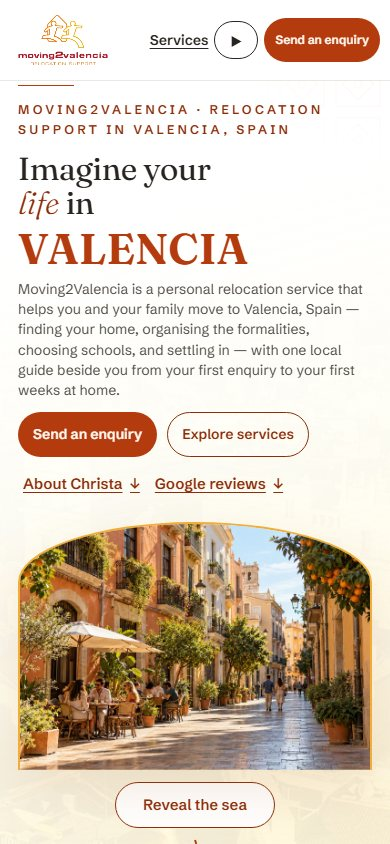
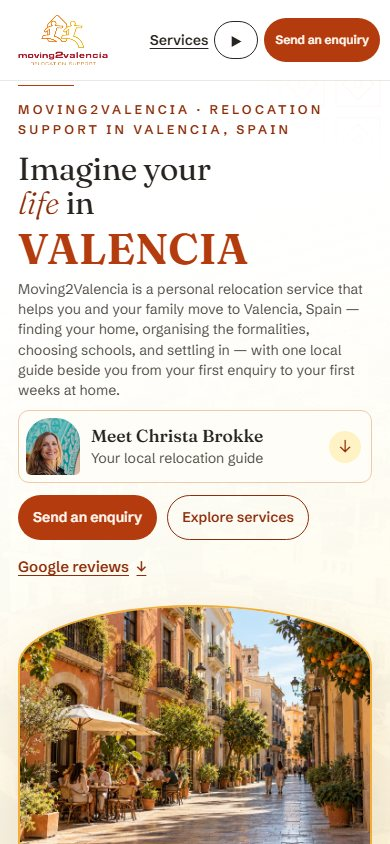
Introduce Christa near the top of the mobile homepage

diff --git a/review/christa/index.html b/review/christa/index.html
@@ -28,7 +28,7 @@
       <div class="welcome">
         <p>Christa, here’s your chosen design with a brighter palette and your service copy. You can explore the full Services section or try the homepage on desktop and phone.</p>
         <div class="actions">
-          <a class="button primary" href="../client-editions/new-horizon-ii-review/index.html?v=sea-reveal" target="_blank" rel="noopener">Open the revised website <span aria-hidden="true">↗</span></a>
+          <a class="button primary" href="../client-editions/new-horizon-ii-review/index.html?v=christa-welcome" target="_blank" rel="noopener">Open the revised website <span aria-hidden="true">↗</span></a>
           <a class="text-link" href="../client-editions/new-horizon-ii-review/services/index.html" target="_blank" rel="noopener">Review the Services pages <span aria-hidden="true">↗</span></a>
         </div>
       </div>
@@ -49,10 +49,10 @@
         <div class="device-mockup">
           <div class="device-shell">
             <div class="device-screen">
-              <a class="preview-image" id="preview-image" href="../client-editions/new-horizon-ii-review/index.html?v=sea-reveal" target="_blank" rel="noopener" aria-label="Open the revised A New Horizon II website">
+              <a class="preview-image" id="preview-image" href="../client-editions/new-horizon-ii-review/index.html?v=christa-welcome" target="_blank" rel="noopener" aria-label="Open the revised A New Horizon II website">
                 <picture>
-                  <source media="(max-width: 600px)" srcset="homepage-phone.jpg?v=sea-reveal" width="390" height="844">
-                  <img src="homepage-preview.jpg?v=sea-reveal" width="1440" height="900" alt="The revised homepage with orange type and a Valencia café street framed in an arch" fetchpriority="high">
+                  <source media="(max-width: 600px)" srcset="homepage-phone.jpg?v=christa-welcome" width="390" height="844">
+                  <img src="homepage-preview.jpg?v=christa-welcome" width="1440" height="900" alt="The revised homepage with orange type and a Valencia café street framed in an arch" fetchpriority="high">
                 </picture>
               </a>
               <iframe id="site-preview" title="Interactive A New Horizon II website preview" hidden></iframe>
@@ -76,7 +76,7 @@
         </div>
         <div>
           <dt><span aria-hidden="true">02</span> City to sea on the homepage</dt>
-          <dd><p>The first photo shows the full café street, then opens into the Mediterranean coast as it comes into view. You can return to the city and play the reveal again.</p><a href="../client-editions/new-horizon-ii-review/index.html?v=sea-reveal" target="_blank" rel="noopener">Watch the opening <span aria-hidden="true">↗</span></a> <a href="../client-editions/new-horizon-ii-review/index.html?v=sea-reveal#flArch" target="_blank" rel="noopener">See the city open to the sea <span aria-hidden="true">↗</span></a></dd>
+          <dd><p>The first photo shows the full café street, then opens into the Mediterranean coast as it comes into view. You can return to the city and play the reveal again.</p><a href="../client-editions/new-horizon-ii-review/index.html?v=christa-welcome" target="_blank" rel="noopener">Watch the opening <span aria-hidden="true">↗</span></a> <a href="../client-editions/new-horizon-ii-review/index.html?v=christa-welcome#flArch" target="_blank" rel="noopener">See the city open to the sea <span aria-hidden="true">↗</span></a></dd>
         </div>
         <div>
           <dt><span aria-hidden="true">03</span> School choices and timing</dt>
@@ -84,13 +84,13 @@
         </div>
         <div>
           <dt><span aria-hidden="true">04</span> Your story in your own words</dt>
-          <dd><p>On mobile, About Christa is linked from the top of the homepage. The section tells the story from your work in opera to your family’s move to Valencia and the start of Moving2Valencia.</p><a href="../client-editions/new-horizon-ii-review/index.html?v=sea-reveal#person" target="_blank" rel="noopener">Read the About section <span aria-hidden="true">↗</span></a></dd>
+          <dd><p>On phones, your portrait and a Meet Christa card appear near the top of the homepage. Tapping the card takes readers straight to your story.</p><a href="../client-editions/new-horizon-ii-review/index.html?v=christa-welcome#person" target="_blank" rel="noopener">Read the About section <span aria-hidden="true">↗</span></a></dd>
         </div>
         <div>
           <dt><span aria-hidden="true">05</span> Google reviews on the homepage</dt>
           <dd>
             <p>The homepage features five excerpts, including our family’s review. Each excerpt links to the original on Google.</p>
-            <a href="../client-editions/new-horizon-ii-review/index.html?v=sea-reveal#reviews" target="_blank" rel="noopener">See the review section <span aria-hidden="true">↗</span></a>
+            <a href="../client-editions/new-horizon-ii-review/index.html?v=christa-welcome#reviews" target="_blank" rel="noopener">See the review section <span aria-hidden="true">↗</span></a>
             <a href="#family-review">Read the five excerpts below <span aria-hidden="true">↓</span></a>
           </dd>
         </div>

diff --git a/review/client-editions/new-horizon-ii-review/christa.css b/review/client-editions/new-horizon-ii-review/christa.css
@@ -28,8 +28,7 @@ body[data-christa-preview] {
 .topbar:not(.scrolled){background:#fffffff0;color:var(--ink);box-shadow:0 1px 0 #ded8cd99}
 .sp-top .christa-brand{width:clamp(96px,14vw,158px)}
 .mobile-services,.motion-glyph,.hero-about{display:none}
-.hero-reviews,.hero-about{align-items:center;gap:.5em;min-height:44px;padding:0 5px;color:var(--sun-orange-deep);font-size:15px;font-weight:600;text-underline-offset:.22em}
-.hero-reviews{display:inline-flex}
+.hero-reviews{display:inline-flex;align-items:center;gap:.5em;min-height:44px;padding:0 5px;color:var(--sun-orange-deep);font-size:15px;font-weight:600;text-underline-offset:.22em}
 [id="reviews"], [id="route"], [id="packages"], [id="belong"], [id="start"], #flArch{scroll-margin-top:110px}
 .service-shortcuts{margin:1em 0 0;max-width:58ch}
 .service-shortcuts p{margin:0;color:var(--ink-soft)}
@@ -87,7 +86,6 @@ body[data-christa-preview] {
 .compare-page figcaption strong{display:block;font-size:19px}
 @media (min-width:1120px) and (max-width:1260px){.topnav{gap:14px}.topbar{gap:12px}}
 @media (max-width:1119px){.topbar .topnav{display:none}.christa-brand{width:104px}.topbar .brand{padding:5px 7px}.mobile-services{display:inline-flex;align-items:center;min-height:44px;font-size:14px;font-weight:600;text-underline-offset:.2em}}
-@media (max-width:1119px){.hero-about{display:inline-flex}}
 @media (max-width:680px){.christa-review-grid,.christa-package-grid,.compare-page .compare-proof-grid{grid-template-columns:1fr}.christa-brand{width:92px}.hero-reviews{padding:0}.topbar .btn-small{min-height:44px}.compare-page figure img{max-width:400px;margin:auto}}
 @media (max-width:415px){.topbar .motion-toggle{min-width:44px;justify-content:center;padding:0}.topbar .dot{display:none}.motion-glyph{display:inline-block;font-size:14px}.motion-glyph::before{content:'Ⅱ'}body.motion-off .motion-glyph::before{content:'▶'}.topbar #motionLabel{position:absolute;width:1px;height:1px;overflow:hidden;clip-path:inset(50%);white-space:nowrap}}
 
@@ -104,6 +102,26 @@ body[data-christa-preview] {
 .hero .valencia-word.settled { color: var(--sun-orange); -webkit-text-fill-color: var(--sun-orange); }
 .hero-sub, .hero-meta, .fl-arch figcaption { color: var(--sun-muted); }
 .hero-meta span b { color: var(--sun-ink); }
+.hero-about {
+  grid-template-columns: 54px minmax(0, 1fr) 32px;
+  align-items: center;
+  gap: 11px;
+  width: min(100%, 390px);
+  margin: 10px 0 0;
+  padding: 7px 10px 7px 7px;
+  border: 1px solid #edcba8;
+  border-radius: 11px;
+  background: #fffdf7;
+  color: var(--sun-ink);
+  line-height: 1.3;
+  text-decoration: none;
+}
+.hero-about:hover { border-color: var(--sun-orange); }
+.hero-about strong { display: block; font: 550 clamp(17px, 4.5vw, 22px)/1.15 var(--serif); }
+.hero-about-role { display: block; margin-top: 3px; font-size: 14px; color: var(--sun-muted); }
+.hero-about-portrait { height: 57px; overflow: hidden; border-radius: 24px 24px 5px 5px; }
+.hero-about-portrait img { width: 100%; height: 100%; object-fit: cover; object-position: 50% 24%; transform: scale(1.75); transform-origin: 45% 43%; }
+.hero-about-arrow { display: grid; place-items: center; width: 32px; height: 32px; border-radius: 50%; background: var(--sun-yellow); color: var(--sun-orange-deep); font-size: 18px; }
 .fl-arch .frame { aspect-ratio: 4 / 4.4; background: var(--sun-yellow); border-color: var(--sun-gold); box-shadow: 0 20px 56px #b56f3729; }
 .fl-arch img { object-position: 61% 50%; }
 .fl-arch .city-sea-city { object-position: 45% 50%; }
@@ -148,6 +166,9 @@ body[data-christa-preview] .client-edition-footer { background: #fff; color: var
 
 @media (max-width: 760px) {
   .fl-wash { background: linear-gradient(165deg, #fff 24%, #fffdf2ea 58%, #fff6d5b0 100%); }
+}
+@media (max-width: 1119px) {
+  .hero-about { display: grid; }
 }
 @media (max-width: 640px) {
   .hero .fl-arch { width: min(100%, 360px); }

diff --git a/review/client-editions/new-horizon-ii-review/index.html b/review/client-editions/new-horizon-ii-review/index.html
@@ -1168,7 +1168,7 @@ html.splash-on #m2vSplash{display:block}
 })();
 </script>
 <!-- ============ SPLASH · Valencia Arrivals (see <head> gate) ============ -->
-<meta name="robots" content="noindex,nofollow"><link rel="stylesheet" href="../client-import.css"><script src="../../jury-shell.js" defer></script><script src="../client-import.js" defer></script><script src="../../jury-audit.js" defer></script><link rel="stylesheet" href="christa.css?v=sea-reveal"></head><body data-client-edition="new-horizon-ii" data-christa-preview><div id="m2vSplash"><div class="sp-stage" id="spStage" role="region" aria-label="Welcome to Moving2Valencia">
+<meta name="robots" content="noindex,nofollow"><link rel="stylesheet" href="../client-import.css"><script src="../../jury-shell.js" defer></script><script src="../client-import.js" defer></script><script src="../../jury-audit.js" defer></script><link rel="stylesheet" href="christa.css?v=christa-welcome"></head><body data-client-edition="new-horizon-ii" data-christa-preview><div id="m2vSplash"><div class="sp-stage" id="spStage" role="region" aria-label="Welcome to Moving2Valencia">
   <div class="sp-world" id="spWorld">
     <div class="sp-sky" id="spSky">
       <div class="sp-glow" id="spGlow"></div>
@@ -1269,10 +1269,14 @@ html.splash-on #m2vSplash{display:block}
         <p class="hero-kicker"><span class="rule" aria-hidden="true"></span> Moving2Valencia · Relocation support in Valencia, Spain</p>
         <h1 id="hero-h"><span class="hl-mask"><span class="hl-inner">Imagine your</span></span> <span class="hl-mask"><span class="hl-inner"><em>life</em> in</span></span> <span class="valencia-word settled" id="valenciaWord">VALENCIA</span></h1>
         <p class="hero-sub">Moving2Valencia is a personal relocation service that helps you and your family move to Valencia, Spain — finding your home, organising the formalities, choosing schools, and settling in — with one local guide beside you from your first enquiry to your first weeks at home.</p>
+        <a class="hero-about" href="#person">
+          <span class="hero-about-portrait"><img src="../new-horizon-ii/img/christa-600.webp" width="600" height="824" alt="" loading="lazy" decoding="async"></span>
+          <span><strong>Meet Christa Brokke</strong><span class="hero-about-role">Your local relocation guide</span></span>
+          <span class="hero-about-arrow" aria-hidden="true">↓</span>
+        </a>
         <div class="hero-cta">
           <a class="btn btn-terra" href="#start">Send an enquiry</a>
           <a class="btn btn-ghost" href="services/index.html">Explore services</a>
-          <a class="hero-about" href="#person">About Christa <span aria-hidden="true">↓</span></a>
           <a class="hero-reviews" href="#reviews">Google reviews <span aria-hidden="true">↓</span></a>
         </div>
         <p class="hero-meta">

diff --git a/review/client-editions/new-horizon-ii-review/services/relocation-packages-valencia.html b/review/client-editions/new-horizon-ii-review/services/relocation-packages-valencia.html
@@ -14,11 +14,11 @@
   <a class="services-skip" href="#main">Skip to content</a>
   <header class="services-header">
     <div class="services-shell">
-      <a class="services-logo" href="../index.html?v=sea-reveal#hero"><img src="../r5-bold-gaps.svg?v=marked-crossings" width="720" height="409" alt="Moving2Valencia Relocation Support"></a>
+      <a class="services-logo" href="../index.html?v=christa-welcome#hero"><img src="../r5-bold-gaps.svg?v=marked-crossings" width="720" height="409" alt="Moving2Valencia Relocation Support"></a>
       <nav aria-label="Main navigation">
         <a href="index.html">Services</a>
-        <a class="services-about" href="../index.html?v=sea-reveal#person">About Christa</a>
-        <a class="services-button" href="../index.html?v=sea-reveal#start">Send an enquiry</a>
+        <a class="services-about" href="../index.html?v=christa-welcome#person">About Christa</a>
+        <a class="services-button" href="../index.html?v=christa-welcome#start">Send an enquiry</a>
       </nav>
     </div>
   </header>
@@ -70,7 +70,7 @@
           <p>Please note that Moving2Valencia does not handle visa or residence permit applications, including the Non-Lucrative Visa (NLV), Digital Nomad Visa (DNV) or other visa procedures. We work with reliable immigration lawyers who specialise in these applications and can connect you directly with them.</p>
           <p>Our NIE and TIE assistance covers practical help with the relevant administrative procedures. TIE assistance is available once your visa or residence permit has been approved.</p>
         <div class="services-next">
-          <a class="services-button" href="../index.html?v=sea-reveal#start">Send an enquiry</a>
+          <a class="services-button" href="../index.html?v=christa-welcome#start">Send an enquiry</a>
           <a href="index.html">Explore all services</a>
         </div>
       </article>
@@ -89,8 +89,8 @@
   <footer class="services-footer">
     <div class="services-shell">
       <p>Moving2Valencia · Christa Brokke · Valencia, Spain</p>
-      <a href="../index.html?v=sea-reveal#reviews">Google reviews</a>
-      <a href="../index.html?v=sea-reveal#start">Contact Christa</a>
+      <a href="../index.html?v=christa-welcome#reviews">Google reviews</a>
+      <a href="../index.html?v=christa-welcome#start">Contact Christa</a>
     </div>
   </footer>
 </body>

diff --git a/review/client-editions/new-horizon-ii-review/services/index.html b/review/client-editions/new-horizon-ii-review/services/index.html
@@ -14,18 +14,18 @@
   <a class="services-skip" href="#main">Skip to content</a>
   <header class="services-header">
     <div class="services-shell">
-      <a class="services-logo" href="../index.html?v=sea-reveal#hero"><img src="../r5-bold-gaps.svg?v=marked-crossings" width="720" height="409" alt="Moving2Valencia Relocation Support"></a>
+      <a class="services-logo" href="../index.html?v=christa-welcome#hero"><img src="../r5-bold-gaps.svg?v=marked-crossings" width="720" height="409" alt="Moving2Valencia Relocation Support"></a>
       <nav aria-label="Main navigation">
         <a href="index.html" aria-current="page">Services</a>
-        <a class="services-about" href="../index.html?v=sea-reveal#person">About Christa</a>
-        <a class="services-button" href="../index.html?v=sea-reveal#start">Send an enquiry</a>
+        <a class="services-about" href="../index.html?v=christa-welcome#person">About Christa</a>
+        <a class="services-button" href="../index.html?v=christa-welcome#start">Send an enquiry</a>
       </nav>
     </div>
   </header>
   <main id="main">
     <div class="services-intro services-shell">
       <div>
-        <p class="services-breadcrumb"><a href="../index.html?v=sea-reveal#hero">Home</a></p>
+        <p class="services-breadcrumb"><a href="../index.html?v=christa-welcome#hero">Home</a></p>
         <h1>Relocation services <em>in Valencia</em></h1>
         <p class="services-lede">Get to know Valencia before you move, find a home or school, and get practical help with the paperwork. Choose the support that fits your move.</p>
       </div>
@@ -79,8 +79,8 @@
   <footer class="services-footer">
     <div class="services-shell">
       <p>Moving2Valencia · Christa Brokke · Valencia, Spain</p>
-      <a href="../index.html?v=sea-reveal#reviews">Google reviews</a>
-      <a href="../index.html?v=sea-reveal#start">Contact Christa</a>
+      <a href="../index.html?v=christa-welcome#reviews">Google reviews</a>
+      <a href="../index.html?v=christa-welcome#start">Contact Christa</a>
     </div>
   </footer>
 </body>

diff --git a/review/client-editions/new-horizon-ii-review/services/pre-move-assistance-valencia.html b/review/client-editions/new-horizon-ii-review/services/pre-move-assistance-valencia.html
@@ -14,11 +14,11 @@
   <a class="services-skip" href="#main">Skip to content</a>
   <header class="services-header">
     <div class="services-shell">
-      <a class="services-logo" href="../index.html?v=sea-reveal#hero"><img src="../r5-bold-gaps.svg?v=marked-crossings" width="720" height="409" alt="Moving2Valencia Relocation Support"></a>
+      <a class="services-logo" href="../index.html?v=christa-welcome#hero"><img src="../r5-bold-gaps.svg?v=marked-crossings" width="720" height="409" alt="Moving2Valencia Relocation Support"></a>
       <nav aria-label="Main navigation">
         <a href="index.html">Services</a>
-        <a class="services-about" href="../index.html?v=sea-reveal#person">About Christa</a>
-        <a class="services-button" href="../index.html?v=sea-reveal#start">Send an enquiry</a>
+        <a class="services-about" href="../index.html?v=christa-welcome#person">About Christa</a>
+        <a class="services-button" href="../index.html?v=christa-welcome#start">Send an enquiry</a>
       </nav>
     </div>
   </header>
@@ -47,7 +47,7 @@
           </ul>
           <p>We'll shower you with useful information, practical tips and local insights covering the key aspects of your relocation to Valencia.</p>
         <div class="services-next">
-          <a class="services-button" href="../index.html?v=sea-reveal#start">Send an enquiry</a>
+          <a class="services-button" href="../index.html?v=christa-welcome#start">Send an enquiry</a>
           <a href="relocation-packages-valencia.html">Compare relocation packages</a>
         </div>
       </article>
@@ -66,8 +66,8 @@
   <footer class="services-footer">
     <div class="services-shell">
       <p>Moving2Valencia · Christa Brokke · Valencia, Spain</p>
-      <a href="../index.html?v=sea-reveal#reviews">Google reviews</a>
-      <a href="../index.html?v=sea-reveal#start">Contact Christa</a>
+      <a href="../index.html?v=christa-welcome#reviews">Google reviews</a>
+      <a href="../index.html?v=christa-welcome#start">Contact Christa</a>
     </div>
   </footer>
 </body>

diff --git a/review/client-editions/new-horizon-ii-review/services/school-finding-valencia.html b/review/client-editions/new-horizon-ii-review/services/school-finding-valencia.html
@@ -14,11 +14,11 @@
   <a class="services-skip" href="#main">Skip to content</a>
   <header class="services-header">
     <div class="services-shell">
-      <a class="services-logo" href="../index.html?v=sea-reveal#hero"><img src="../r5-bold-gaps.svg?v=marked-crossings" width="720" height="409" alt="Moving2Valencia Relocation Support"></a>
+      <a class="services-logo" href="../index.html?v=christa-welcome#hero"><img src="../r5-bold-gaps.svg?v=marked-crossings" width="720" height="409" alt="Moving2Valencia Relocation Support"></a>
       <nav aria-label="Main navigation">
         <a href="index.html">Services</a>
-        <a class="services-about" href="../index.html?v=sea-reveal#person">About Christa</a>
-        <a class="services-button" href="../index.html?v=sea-reveal#start">Send an enquiry</a>
+        <a class="services-about" href="../index.html?v=christa-welcome#person">About Christa</a>
+        <a class="services-button" href="../index.html?v=christa-welcome#start">Send an enquiry</a>
       </nav>
     </div>
   </header>
@@ -52,7 +52,7 @@
           </ul>
           <p>And if you need additional support or have specific questions, just ask us. We'll be happy to see how we can help!</p>
         <div class="services-next">
-          <a class="services-button" href="../index.html?v=sea-reveal#start">Send an enquiry</a>
+          <a class="services-button" href="../index.html?v=christa-welcome#start">Send an enquiry</a>
           <a href="relocation-packages-valencia.html">Compare relocation packages</a>
         </div>
       </article>
@@ -71,8 +71,8 @@
   <footer class="services-footer">
     <div class="services-shell">
       <p>Moving2Valencia · Christa Brokke · Valencia, Spain</p>
-      <a href="../index.html?v=sea-reveal#reviews">Google reviews</a>
-      <a href="../index.html?v=sea-reveal#start">Contact Christa</a>
+      <a href="../index.html?v=christa-welcome#reviews">Google reviews</a>
+      <a href="../index.html?v=christa-welcome#start">Contact Christa</a>
     </div>
   </footer>
 </body>

diff --git a/review/client-editions/new-horizon-ii-review/services/legal-administrative-assistance-valencia.html b/review/client-editions/new-horizon-ii-review/services/legal-administrative-assistance-valencia.html
@@ -14,11 +14,11 @@
   <a class="services-skip" href="#main">Skip to content</a>
   <header class="services-header">
     <div class="services-shell">
-      <a class="services-logo" href="../index.html?v=sea-reveal#hero"><img src="../r5-bold-gaps.svg?v=marked-crossings" width="720" height="409" alt="Moving2Valencia Relocation Support"></a>
+      <a class="services-logo" href="../index.html?v=christa-welcome#hero"><img src="../r5-bold-gaps.svg?v=marked-crossings" width="720" height="409" alt="Moving2Valencia Relocation Support"></a>
       <nav aria-label="Main navigation">
         <a href="index.html">Services</a>
-        <a class="services-about" href="../index.html?v=sea-reveal#person">About Christa</a>
-        <a class="services-button" href="../index.html?v=sea-reveal#start">Send an enquiry</a>
+        <a class="services-about" href="../index.html?v=christa-welcome#person">About Christa</a>
+        <a class="services-button" href="../index.html?v=christa-welcome#start">Send an enquiry</a>
       </nav>
     </div>
   </header>
@@ -58,7 +58,7 @@
             <li>Departure services – practical assistance with the arrangements involved when leaving Spain.</li>
           </ul>
         <div class="services-next">
-          <a class="services-button" href="../index.html?v=sea-reveal#start">Send an enquiry</a>
+          <a class="services-button" href="../index.html?v=christa-welcome#start">Send an enquiry</a>
           <a href="relocation-packages-valencia.html">Compare relocation packages</a>
         </div>
       </article>
@@ -77,8 +77,8 @@
   <footer class="services-footer">
     <div class="services-shell">
       <p>Moving2Valencia · Christa Brokke · Valencia, Spain</p>
-      <a href="../index.html?v=sea-reveal#reviews">Google reviews</a>
-      <a href="../index.html?v=sea-reveal#start">Contact Christa</a>
+      <a href="../index.html?v=christa-welcome#reviews">Google reviews</a>
+      <a href="../index.html?v=christa-welcome#start">Contact Christa</a>
     </div>
   </footer>
 </body>

diff --git a/review/client-editions/new-horizon-ii-review/services/home-finding-valencia.html b/review/client-editions/new-horizon-ii-review/services/home-finding-valencia.html
@@ -14,11 +14,11 @@
   <a class="services-skip" href="#main">Skip to content</a>
   <header class="services-header">
     <div class="services-shell">
-      <a class="services-logo" href="../index.html?v=sea-reveal#hero"><img src="../r5-bold-gaps.svg?v=marked-crossings" width="720" height="409" alt="Moving2Valencia Relocation Support"></a>
+      <a class="services-logo" href="../index.html?v=christa-welcome#hero"><img src="../r5-bold-gaps.svg?v=marked-crossings" width="720" height="409" alt="Moving2Valencia Relocation Support"></a>
       <nav aria-label="Main navigation">
         <a href="index.html">Services</a>
-        <a class="services-about" href="../index.html?v=sea-reveal#person">About Christa</a>
-        <a class="services-button" href="../index.html?v=sea-reveal#start">Send an enquiry</a>
+        <a class="services-about" href="../index.html?v=christa-welcome#person">About Christa</a>
+        <a class="services-button" href="../index.html?v=christa-welcome#start">Send an enquiry</a>
       </nav>
     </div>
   </header>
@@ -54,7 +54,7 @@
             <li>Settling-in assistance on moving day (included in the family relocation packages only).</li>
           </ul>
         <div class="services-next">
-          <a class="services-button" href="../index.html?v=sea-reveal#start">Send an enquiry</a>
+          <a class="services-button" href="../index.html?v=christa-welcome#start">Send an enquiry</a>
           <a href="relocation-packages-valencia.html">Compare relocation packages</a>
         </div>
       </article>
@@ -73,8 +73,8 @@
   <footer class="services-footer">
     <div class="services-shell">
       <p>Moving2Valencia · Christa Brokke · Valencia, Spain</p>
-      <a href="../index.html?v=sea-reveal#reviews">Google reviews</a>
-      <a href="../index.html?v=sea-reveal#start">Contact Christa</a>
+      <a href="../index.html?v=christa-welcome#reviews">Google reviews</a>
+      <a href="../index.html?v=christa-welcome#start">Contact Christa</a>
     </div>
   </footer>
 </body>

diff --git a/review/client-editions/new-horizon-ii-review/compare.html b/review/client-editions/new-horizon-ii-review/compare.html
@@ -9,7 +9,7 @@
 </head>
 <body class="compare-page">
   <main>
-    <nav aria-label="Preview"><a href="index.html?v=sea-reveal">← Back to A New Horizon II</a></nav>
+    <nav aria-label="Preview"><a href="index.html?v=christa-welcome">← Back to A New Horizon II</a></nav>
     <h1>Christa, a closer look at R5 Bold</h1>
     <p>Both versions use the same stacked layout, bold lettering and classic red and orange. In the second, the house outline breaks behind the figures’ arms and legs at the points you marked.</p>
     <div class="compare-proof-grid">
